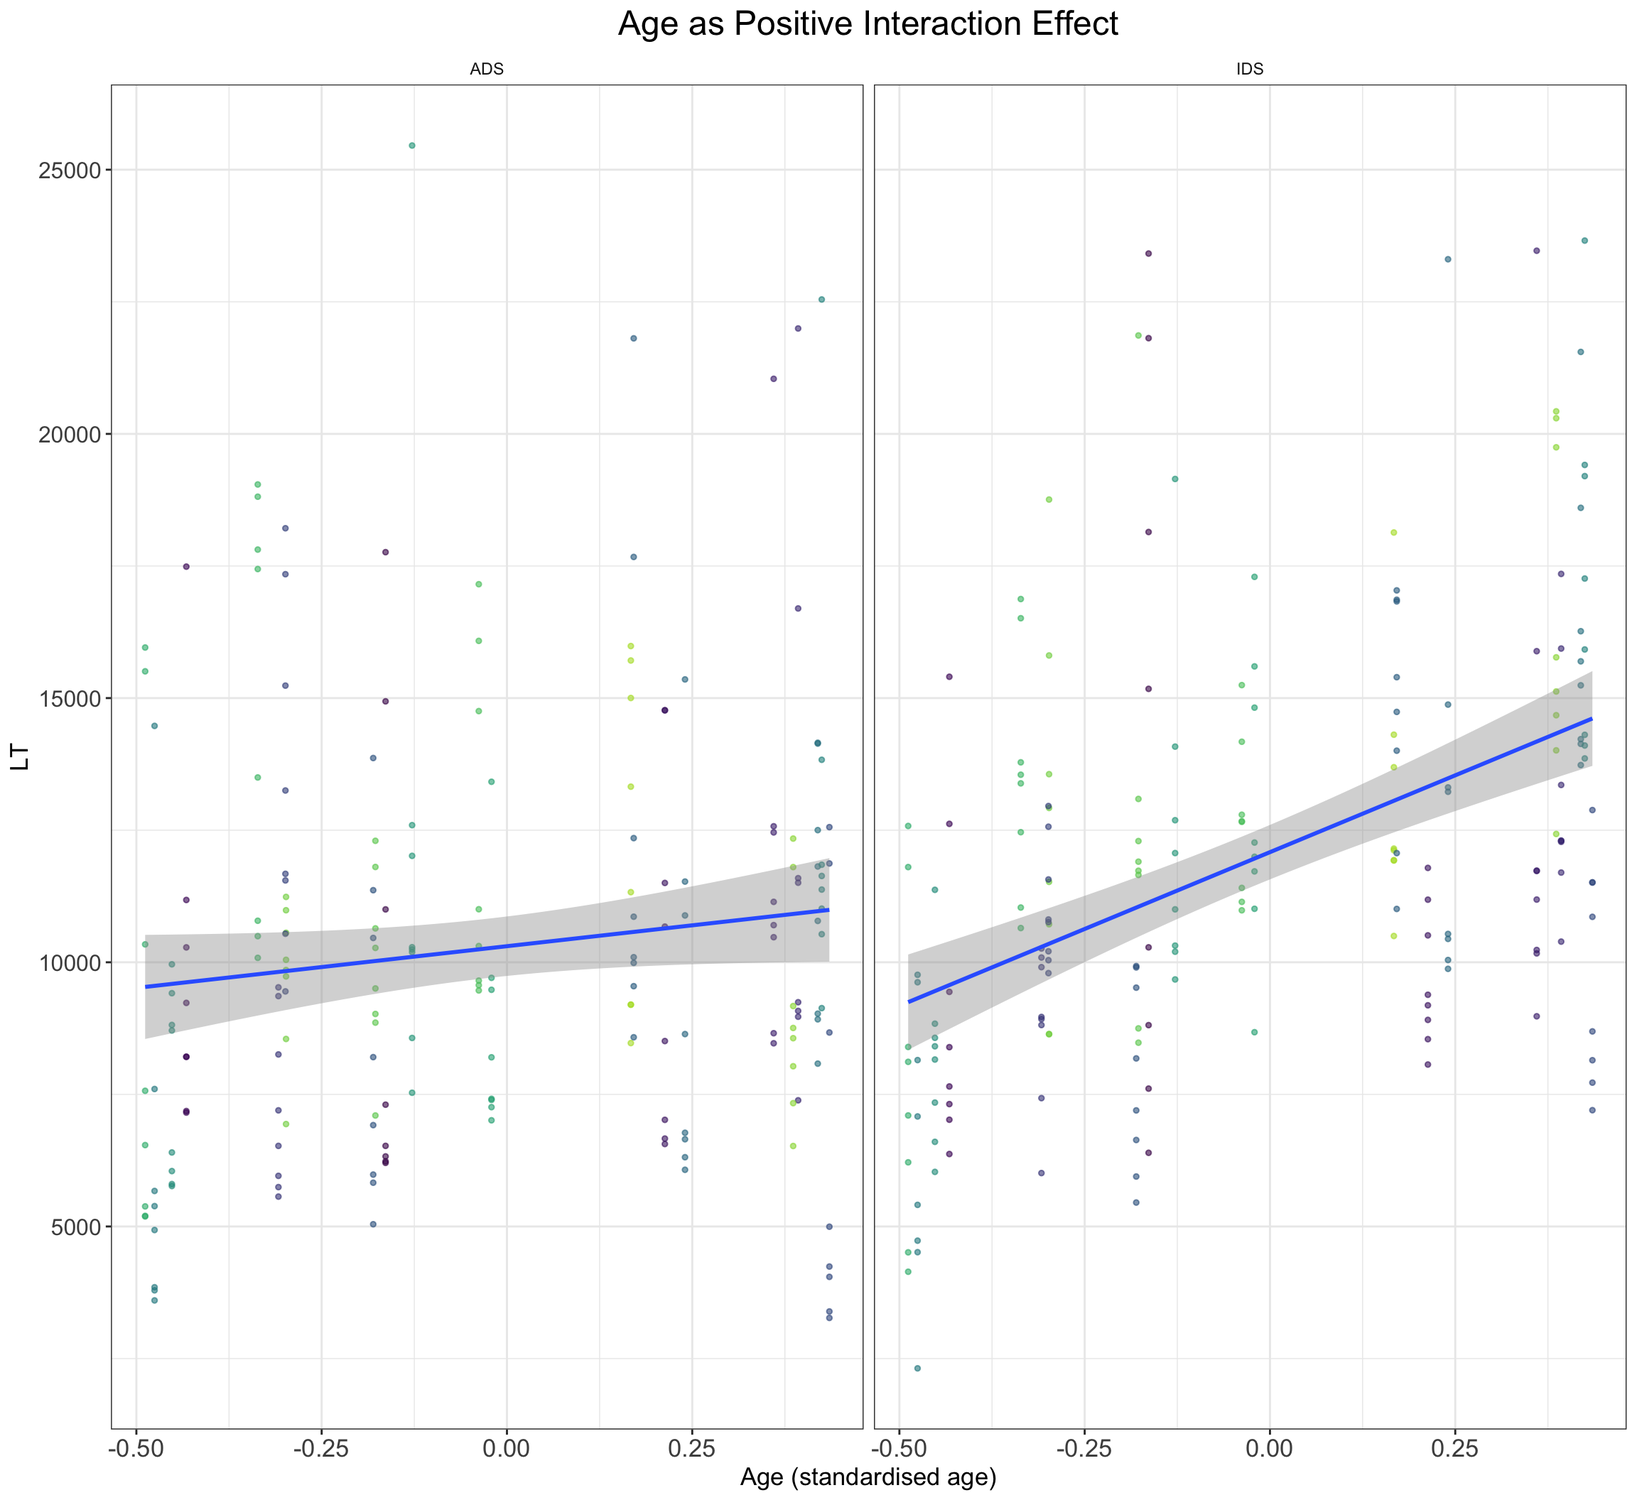
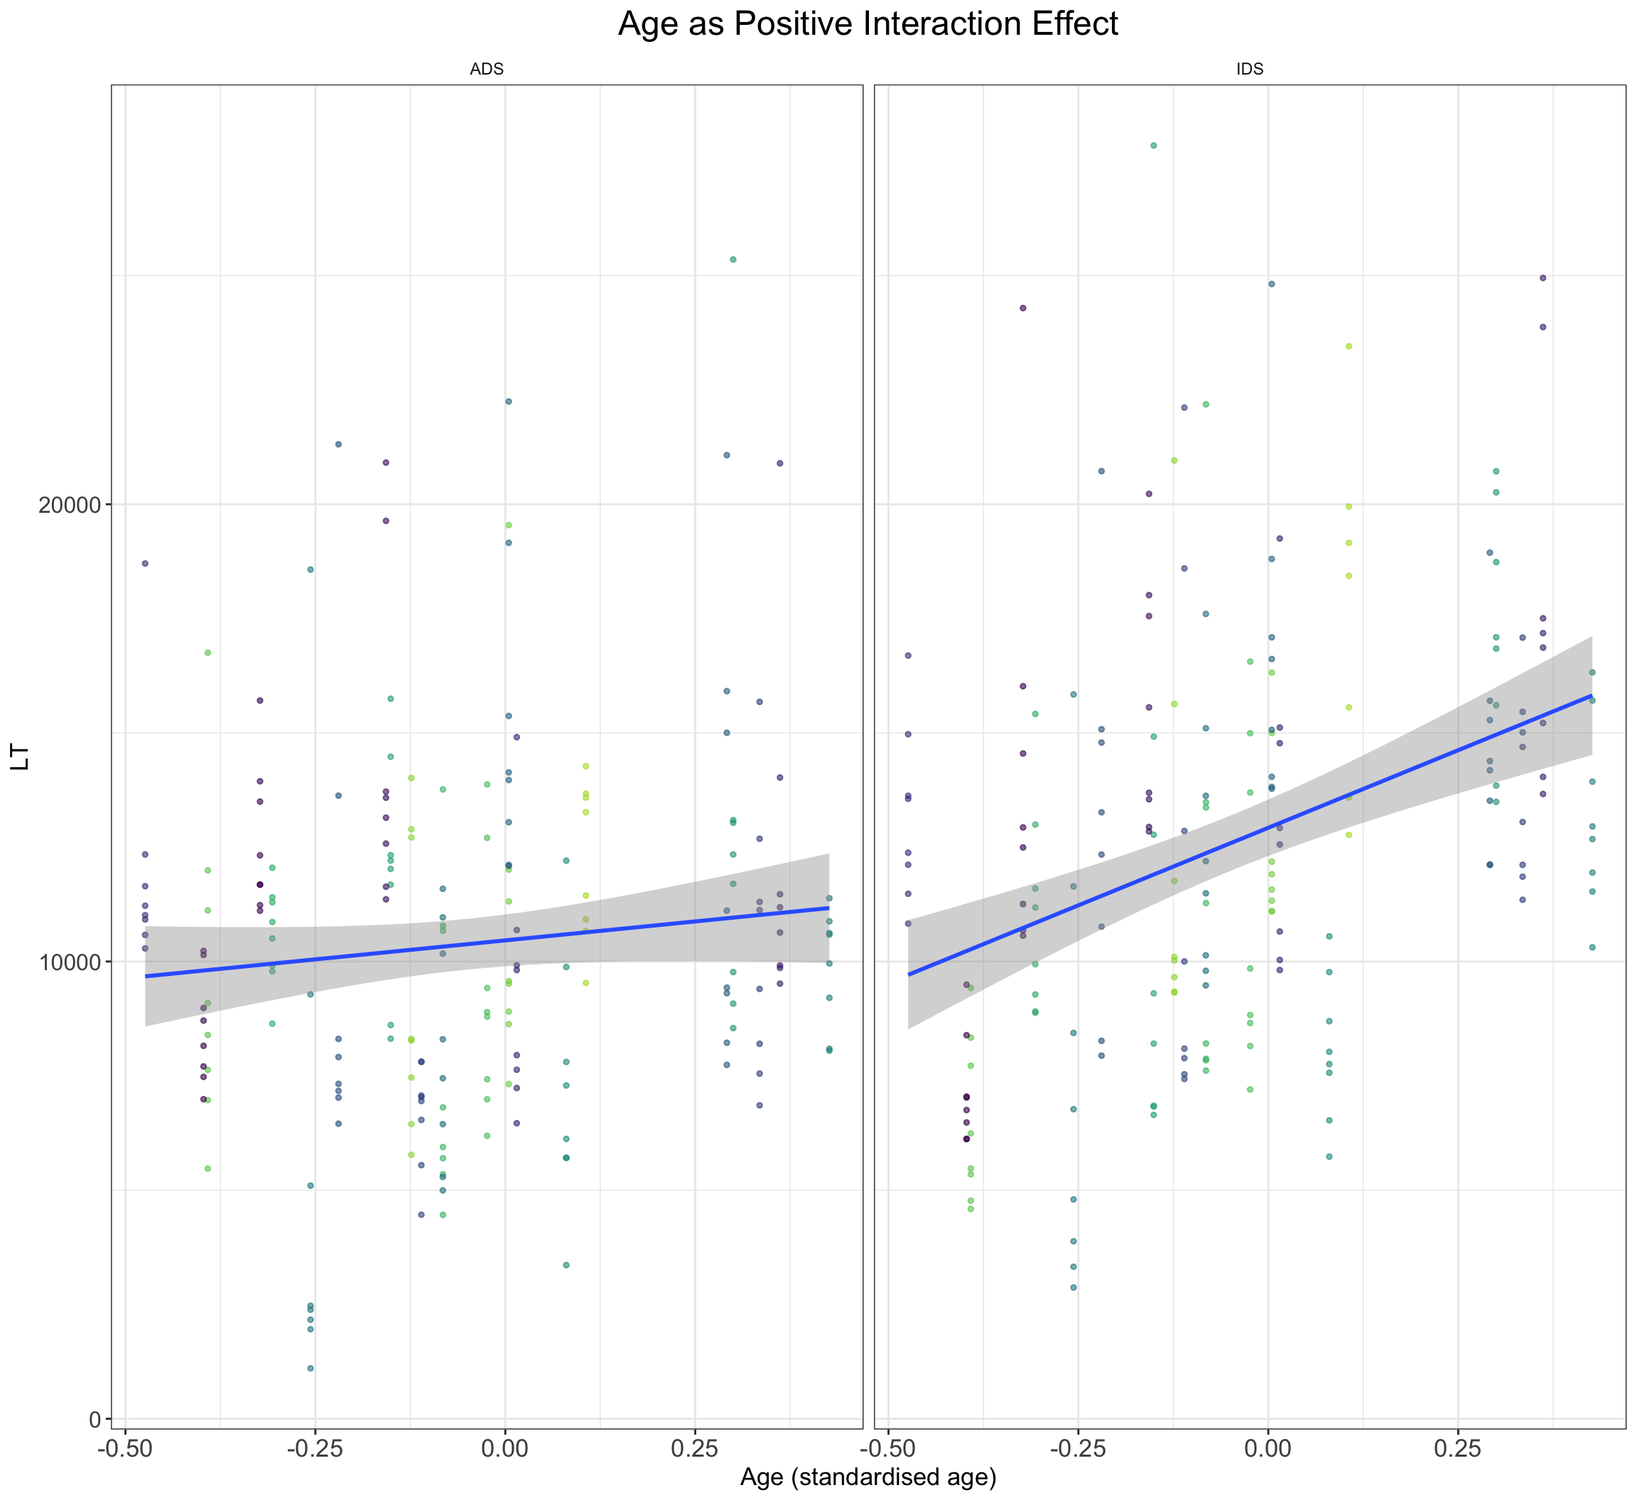
Built site for gh-pages

diff --git a/index.html b/index.html
@@ -174,6 +174,11 @@ ul.task-list li input[type="checkbox"] {
 <p>Welcome! This website will form the basis of the 2024 ManyBabies workshop on Data Simulation &amp; Power Analysis. Before we start, I would like to emphasise that this workshop has grown out of discussion with lots of different people and is a true collaborative effort, which accords nicely with the general philosophy of ManyBabies projects. The approach to data simulation and power analysis explored here is closely associated with the data analysis team on the ManyBabies5 project (https://manybabies.org/MB5/). This series of meetings among researchers on the data analysis team was a fundamentally exploratory process being guided by a what-if mindset.</p>
 <p>For example, how do predictors with two or three levels impact the power to detect an effect on infant looking times? How does variability in individual labs come to affect generalisability and statistical power? What is the optimal balance between various pracical constraints (e.g., an upper bound on the number of stimulus items that infants can attend to) and statistical inference (e.g., how much of a decrease in power are we willing to accept based on the above constraints)? Can these results inform the experimental design in some way and improve chances of replicability?</p>
 <p>This workshop assumes a little literacy in R and linear mixed-effects models, but I have attempted to make these subjects as accessible as possible, even without knowledge of these topics. If you are interested in gaining hands-on pracical experience with the code, then feel free to download the following .Rmd files with the code, so that you can get a better idea of what each code snippet does and can manipulate them according to your own needs and studies.</p>
+<div class="cell">
+<div class="cell-output-display">
[1 lines of base64/hex data omitted]
+</div>
+</div>
 <p><em>LINK TO EXERCISE SHEET, PART 1 </em>LINK TO EXERCISE SHEET, PART 2 *LINK TO EXERCISE SHEET, PART 3</p>
 <p>I hope that this will be fun experience and useful exploration of data simulation, power analysis, statistical modelling and programming, and if you have any questions, big or small, feel free to contact me on chris[dot]mm[dot]cox@gmail.com.</p>
 

diff --git a/content/ExerciseDataSimulation.html b/content/ExerciseDataSimulation.html
@@ -252,28 +252,26 @@ window.Quarto = {
 
 <section id="a-description-of-the-example-and-aim-of-the-simulation" class="level2" data-number="1">
 <h2 data-number="1" class="anchored" data-anchor-id="a-description-of-the-example-and-aim-of-the-simulation"><span class="header-section-number">1</span> A Description of the Example and Aim of the Simulation</h2>
-<p>In this first task, we will deal with a domain that should be familiar to many developmental science researchers: infant looking times to adult-directed speech (ADS) and infant-directed speech (IDS). In this study, infant participants are exposed to recordings of ADS and IDS, and infants’ looking times to an unrelated visual stimulus is recorded as the primary dependent variable. The key question is whether there are any behavioural differences according to the set of stimuli (i.e., ADS vs.&nbsp;IDS) within each participant. In this section, we will simulate data on the scale of looking times (i.e., 0-20,000ms) to gain fammiliarity with the simulation process. In later sections, we will extend the process to simulate data on the scale of effect sizes.</p>
-<p>To give an overview of this first simulation task, we will simulate data with crossed random factors of subjects and stimuli and visualise the simulated data along the way to gain familiarity with the process. We will end up with a simulation function that can help us when performing the power analysis in Part II.</p>
+<p>In this first task, we will deal with a dependent variable that should be familiar to many researchers within developmental science: infant looking times. In our hypothetical study (modelled on ManyBabies1), infant participants are exposed to recordings of adult-directed speech (ADS) and infant-directed speech (IDS), and infants’ looking times to an unrelated visual stimulus is recorded as the primary dependent variable. The key question is whether there are any behavioural differences according to the set of stimuli (i.e., ADS vs.&nbsp;IDS) within each participant. To gain familiarity with the simulation process and to build up the structure for a simulation function that will help us when performing the power analysis in Part II, we will simulate data on the scale of looking times (i.e., 0-20,000ms). In the next section, we will extend this process to simulate effect size data.</p>
 </section>
 <section id="determining-the-experimental-parameters" class="level2" data-number="2">
 <h2 data-number="2" class="anchored" data-anchor-id="determining-the-experimental-parameters"><span class="header-section-number">2</span> Determining the Experimental Parameters</h2>
-<p>Before we can start to simulate data, we need to be very clear about the study design. This clarity is important because we need to define the parameters that govern the process we assume can give rise to the data. If we are building on ManyBabies1, then we are dealing with a within-subjects, between-items study; that is, each and every subject receives both ADS and IDS stimuli (within-subject), but each stimulus is either ADS or IDS (between-items).</p>
-<p>Because infants are not the most patient of participants, perhaps a realistic study design would allow researchers to expose infants to 8 recordings of ADS and 8 recordings of IDS. And let’s say that a realistic sample size our laboratory would be around 25 participants. This implies a total of 400 obsevations in this study (i.e., 8 + 8 recording stimuli for each of the 25 children). Let’s set these experimental parameters now already</p>
+<p>Before we can start to simulate data, we need to be very clear about the study design. This clarity is important because we need to explicitly define the parameters that we assume govern the process of data generation. If we are designing a similar study to that of ManyBabies1, then we are dealing with a within-subjects, between-items study; that is, each and every subject receives both ADS and IDS stimuli (within-subject), but each stimulus is either ADS or IDS (between-items).</p>
+<p>Because infants are not the most patient of participants, perhaps a realistic study design would allow researchers to expose infants to 6 recordings of ADS and 6 recordings of IDS. And let’s say that a realistic sample size in our imaginary laboratory would be around 25 participants. This would imply a total of 300 observations in this study (i.e., 6 + 6 recording stimuli for each of the 25 children). Let’s set start by setting these experimental parameters.</p>
 <div class="cell">
 <div class="sourceCode cell-code" id="cb1"><pre class="sourceCode r code-with-copy"><code class="sourceCode r"><span id="cb1-1"><a href="#cb1-1" aria-hidden="true" tabindex="-1"></a><span class="co"># set number of subjects and items</span></span>
-<span id="cb1-2"><a href="#cb1-2" aria-hidden="true" tabindex="-1"></a>n_subj     <span class="ot">&lt;-</span> <span class="dv">25</span> <span class="co"># number of subjects</span></span>
-<span id="cb1-3"><a href="#cb1-3" aria-hidden="true" tabindex="-1"></a>n_ADS  <span class="ot">&lt;-</span>  <span class="dv">8</span> <span class="co"># number of ADS stimuli</span></span>
-<span id="cb1-4"><a href="#cb1-4" aria-hidden="true" tabindex="-1"></a>n_IDS <span class="ot">&lt;-</span>  <span class="dv">8</span> <span class="co"># number of IDS stimuli</span></span></code><button title="Copy to Clipboard" class="code-copy-button"><i class="bi"></i></button></pre></div>
+<span id="cb1-2"><a href="#cb1-2" aria-hidden="true" tabindex="-1"></a>n_subj <span class="ot">&lt;-</span> <span class="dv">25</span> <span class="co"># number of infant participants</span></span>
+<span id="cb1-3"><a href="#cb1-3" aria-hidden="true" tabindex="-1"></a>n_ADS  <span class="ot">&lt;-</span>  <span class="dv">6</span> <span class="co"># number of ADS stimuli</span></span>
+<span id="cb1-4"><a href="#cb1-4" aria-hidden="true" tabindex="-1"></a>n_IDS  <span class="ot">&lt;-</span>  <span class="dv">6</span> <span class="co"># number of IDS stimuli</span></span></code><button title="Copy to Clipboard" class="code-copy-button"><i class="bi"></i></button></pre></div>
 </div>
 </section>
 <section id="data-generating-parameters" class="level2" data-number="3">
 <h2 data-number="3" class="anchored" data-anchor-id="data-generating-parameters"><span class="header-section-number">3</span> Data Generating Parameters</h2>
-<p>Now that we have an overview of the experimental design, we can start to consider a reasonable statistical model of the data. In the following sections, we will build up the parameters for a mixed-effects statistical model of the following type, as described in the lecture:</p>
+<p>Now that we have an overview of the experimental design, we can start to consider a reasonable model of a potential data generating process. In the following sections, we will gradually build up the parameters for a mixed-effects statistical model of the following type, as described in the lecture:</p>
 <p><span class="math display">\[
 Looking Time = \beta_0 + \beta_1 \cdot \text{SpeechStyle} + u_{0j}^{(item)} + u_{0i}^{(subj)} + (u_{1i}^{(subj)} \cdot \text{SpeechStyle}) + \varepsilon
-\]</span></p>
-<p>According to this formula, the looking time for subject, s, on item, i, is decomposed into linear combination of fixed effects (i.e., the population grand mean, β₀, and the effect of SpeechStyle, β₁) and a variety of random effects, such as a by-subject random intercept, u₀ᵢ^{(subj)}, a by-item random intercept u₀ⱼ^{(item)}, a by-subject random slope, (u₁ᵢ^{(subj)} * SpeechStyle), and a trial-level residual error, ε.</p>
-<p>This formula paves a clear way forward for our data simulation. In the next section, we will build up a statistical model step by step, defining variables in the code as we go along that reflect our choices for parameters.</p>
+\]</span> According to this formula, the looking time for subject, s, on item, i, is decomposed into linear combination of fixed effects (i.e., the population grand mean, β₀, and the effect of SpeechStyle, β₁) and a variety of random effects, such as a by-subject random intercept, u₀ᵢ^{(subj)}, a by-item random intercept u₀ⱼ^{(item)}, a by-subject random slope, (u₁ᵢ^{(subj)} * SpeechStyle), and a trial-level residual error, ε.</p>
+<p>This formula paves a clear way forward for our process of data simulation. In the next section, we will build up a statistical model step by step, defining variables in the code as we go along that reflect our choices for the different parameters.</p>
 </section>
 <section id="choosing-values-for-fixed-effect-parameters" class="level2" data-number="4">
 <h2 data-number="4" class="anchored" data-anchor-id="choosing-values-for-fixed-effect-parameters"><span class="header-section-number">4</span> Choosing Values for Fixed Effect Parameters</h2>
@@ -319,12 +317,12 @@ Looking Time = \beta_0 + \beta_1 \cdot \text{SpeechStyle} + u_{0j}^{(item)} + u_
 <div class="cell">
 <div class="sourceCode cell-code" id="cb6"><pre class="sourceCode r code-with-copy"><code class="sourceCode r"><span id="cb6-1"><a href="#cb6-1" aria-hidden="true" tabindex="-1"></a><span class="fu">glimpse</span>(items)</span></code><button title="Copy to Clipboard" class="code-copy-button"><i class="bi"></i></button></pre></div>
 <div class="cell-output cell-output-stdout">
-<pre><code>Rows: 16
+<pre><code>Rows: 12
 Columns: 4
-$ Register    &lt;chr&gt; "IDS", "IDS", "IDS", "IDS", "IDS", "IDS", "IDS", "IDS", "A…
-$ O_0i        &lt;dbl&gt; -1207.06575, 277.42924, 1084.44118, -2345.69770, 429.12469…
+$ Register    &lt;chr&gt; "IDS", "IDS", "IDS", "IDS", "IDS", "IDS", "ADS", "ADS", "A…
+$ O_0i        &lt;dbl&gt; -1207.0657, 277.4292, 1084.4412, -2345.6977, 429.1247, 506…
 $ item_id     &lt;chr&gt; "I01", "I02", "I03", "I04", "I05", "I06", "I07", "I08", "I…
-$ SpeechStyle &lt;dbl&gt; 0.5, 0.5, 0.5, 0.5, 0.5, 0.5, 0.5, 0.5, -0.5, -0.5, -0.5, …</code></pre>
+$ SpeechStyle &lt;dbl&gt; 0.5, 0.5, 0.5, 0.5, 0.5, 0.5, -0.5, -0.5, -0.5, -0.5, -0.5…</code></pre>
 </div>
 <div class="sourceCode cell-code" id="cb8"><pre class="sourceCode r code-with-copy"><code class="sourceCode r"><span id="cb8-1"><a href="#cb8-1" aria-hidden="true" tabindex="-1"></a><span class="fu">ggplot</span>(items, <span class="fu">aes</span>(<span class="dv">1</span>, O_0i, <span class="at">fill =</span> Register, <span class="at">color =</span> Register)) <span class="sc">+</span></span>
 <span id="cb8-2"><a href="#cb8-2" aria-hidden="true" tabindex="-1"></a>    <span class="fu">geom_rain</span>(<span class="at">alpha =</span> <span class="fl">0.8</span>, <span class="at">boxplot.args =</span> <span class="fu">list</span>(<span class="at">color =</span> <span class="st">"black"</span>,</span>
@@ -363,8 +361,8 @@ $ SpeechStyle &lt;dbl&gt; 0.5, 0.5, 0.5, 0.5, 0.5, 0.5, 0.5, 0.5, -0.5, -0.5, -0
 <div class="cell-output cell-output-stdout">
 <pre><code>Rows: 25
 Columns: 3
-$ T_0s    &lt;dbl&gt; 884.80961, 1710.55508, 1635.49818, -4947.76450, -390.13885, 83…
-$ T_1s    &lt;dbl&gt; 1165.1005, 1063.9211, 489.8264, 327.8312, 899.7244, 1197.1137,…
+$ T_0s    &lt;dbl&gt; 1379.78919, -165.88233, -1974.07433, 403.46405, 884.80961, 171…
+$ T_1s    &lt;dbl&gt; 1497.3476, 267.1884, 198.7101, -1370.1876, 1165.1005, 1063.921…
 $ subj_id &lt;chr&gt; "S01", "S02", "S03", "S04", "S05", "S06", "S07", "S08", "S09",…</code></pre>
 </div>
 <div class="sourceCode cell-code" id="cb12"><pre class="sourceCode r code-with-copy"><code class="sourceCode r"><span id="cb12-1"><a href="#cb12-1" aria-hidden="true" tabindex="-1"></a>subjects <span class="sc">%&gt;%</span></span>
@@ -395,16 +393,16 @@ $ subj_id &lt;chr&gt; "S01", "S02", "S03", "S04", "S05", "S06", "S07", "S08", "S
 <span id="cb13-5"><a href="#cb13-5" aria-hidden="true" tabindex="-1"></a></span>
 <span id="cb13-6"><a href="#cb13-6" aria-hidden="true" tabindex="-1"></a><span class="fu">glimpse</span>(ParameterValues)</span></code><button title="Copy to Clipboard" class="code-copy-button"><i class="bi"></i></button></pre></div>
 <div class="cell-output cell-output-stdout">
-<pre><code>Rows: 400
+<pre><code>Rows: 300
 Columns: 8
 $ T_0s        &lt;dbl&gt; -4947.764, -4947.764, -4947.764, -4947.764, -4947.764, -49…
 $ T_1s        &lt;dbl&gt; 327.8312, 327.8312, 327.8312, 327.8312, 327.8312, 327.8312…
-$ subj_id     &lt;chr&gt; "S04", "S04", "S04", "S04", "S04", "S04", "S04", "S04", "S…
-$ Register    &lt;chr&gt; "ADS", "ADS", "ADS", "ADS", "ADS", "ADS", "ADS", "ADS", "I…
-$ O_0i        &lt;dbl&gt; -998.38644, -890.03783, -776.25389, -564.45200, -477.19270…
-$ item_id     &lt;chr&gt; "I12", "I10", "I13", "I09", "I11", "I16", "I14", "I15", "I…
-$ SpeechStyle &lt;dbl&gt; -0.5, -0.5, -0.5, -0.5, -0.5, -0.5, -0.5, -0.5, 0.5, 0.5, …
-$ e_si        &lt;dbl&gt; -569.303868, 683.913590, 664.782395, 168.236399, 3.446419,…</code></pre>
+$ subj_id     &lt;chr&gt; "S08", "S08", "S08", "S08", "S08", "S08", "S08", "S08", "S…
+$ Register    &lt;chr&gt; "ADS", "ADS", "ADS", "ADS", "ADS", "ADS", "IDS", "IDS", "I…
+$ O_0i        &lt;dbl&gt; -998.3864, -890.0378, -574.7400, -564.4520, -546.6319, -47…
+$ item_id     &lt;chr&gt; "I12", "I10", "I07", "I09", "I08", "I11", "I04", "I01", "I…
+$ SpeechStyle &lt;dbl&gt; -0.5, -0.5, -0.5, -0.5, -0.5, -0.5, 0.5, 0.5, 0.5, 0.5, 0.…
+$ e_si        &lt;dbl&gt; -17.380195, -334.816790, -3.802378, 888.542224, -569.30386…</code></pre>
 </div>
 </div>
 <p>Now we have specified the parameters in ParameterValues, we are ready to add up everything together to create the response variable (i.e., infant looking times in milliseconds). To be more specific, we calculate the response variable, looking time, by adding together:</p>
@@ -521,7 +519,7 @@ $ e_si        &lt;dbl&gt; -569.303868, 683.913590, 664.782395, 168.236399, 3.446
 <span id="cb19-3"><a href="#cb19-3" aria-hidden="true" tabindex="-1"></a><span class="co"># want to simulate 500 subjects and want a mean slope of 0,</span></span>
 <span id="cb19-4"><a href="#cb19-4" aria-hidden="true" tabindex="-1"></a><span class="co"># like so: SimulateLTData(n_subj = 500, mean_slope = 0).</span></span>
 <span id="cb19-5"><a href="#cb19-5" aria-hidden="true" tabindex="-1"></a></span>
-<span id="cb19-6"><a href="#cb19-6" aria-hidden="true" tabindex="-1"></a>LTDataSimulated <span class="ot">&lt;-</span> <span class="fu">SimulateLTData</span>(<span class="at">n_subj =</span> <span class="dv">500</span>, <span class="at">mean_slope =</span> <span class="dv">0</span>)</span>
+<span id="cb19-6"><a href="#cb19-6" aria-hidden="true" tabindex="-1"></a>LTDataSimulated <span class="ot">&lt;-</span> <span class="fu">SimulateLTData</span>(<span class="at">n_subj =</span> <span class="dv">25</span>, <span class="at">mean_slope =</span> <span class="dv">2000</span>)</span>
 <span id="cb19-7"><a href="#cb19-7" aria-hidden="true" tabindex="-1"></a></span>
 <span id="cb19-8"><a href="#cb19-8" aria-hidden="true" tabindex="-1"></a>LTDataSimulated <span class="sc">%&gt;%</span></span>
 <span id="cb19-9"><a href="#cb19-9" aria-hidden="true" tabindex="-1"></a>    <span class="fu">group_by</span>(subj_id, Register) <span class="sc">%&gt;%</span></span>

diff --git a/content/GridSearch.html b/content/GridSearch.html
@@ -187,6 +187,7 @@ pre > code.sourceCode > span > a:first-child::before { text-decoration: underlin
    
   <ul class="collapse">
   <li><a href="#using-grid-searches-to-explore-the-multiverse" id="toc-using-grid-searches-to-explore-the-multiverse" class="nav-link active" data-scroll-target="#using-grid-searches-to-explore-the-multiverse"><span class="header-section-number">1</span> Using Grid Searches to Explore the Multiverse</a></li>
+  <li><a href="#exercises-to-check-understanding" id="toc-exercises-to-check-understanding" class="nav-link" data-scroll-target="#exercises-to-check-understanding"><span class="header-section-number">2</span> Exercises to Check Understanding</a></li>
   </ul>
 <div class="toc-actions"><ul class="collapse"><li><a href="https://github.com/4CCoxAU/PowerAnalysisWorkshopManyBabies/blob/main/content/GridSearch.qmd" class="toc-action"><i class="bi bi-github"></i>View source</a></li></ul></div></nav>
     </div>
@@ -295,8 +296,15 @@ pre > code.sourceCode > span > a:first-child::before { text-decoration: underlin
 </div>
 </div>
 </div>
+</section>
+<section id="exercises-to-check-understanding" class="level2" data-number="2">
+<h2 data-number="2" class="anchored" data-anchor-id="exercises-to-check-understanding"><span class="header-section-number">2</span> Exercises to Check Understanding</h2>
+<section id="exercise-vi" class="level3" data-number="2.1">
+<h3 data-number="2.1" class="anchored" data-anchor-id="exercise-vi"><span class="header-section-number">2.1</span> Exercise VI</h3>
+<p>How would you adapt the above grid search code to investigate the effect of varying</p>
 
 
+</section>
 </section>
 
 </main> <!-- /main -->
